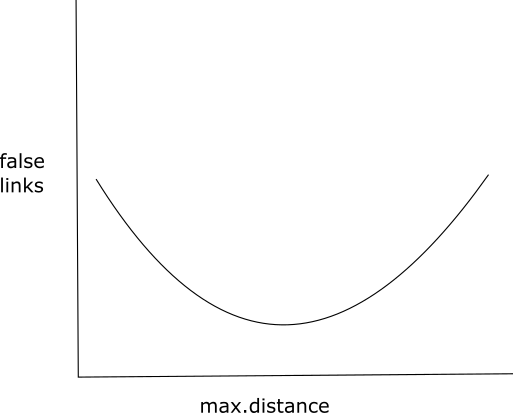
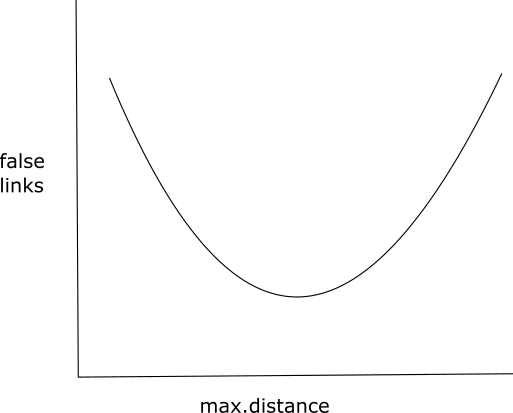
vignette work

diff --git a/github_vignettes/customer-deduplication.md b/github_vignettes/customer-deduplication.md
@@ -81,10 +81,10 @@ There is an inherent tradeoff if we choose to deduplicate records. If we estimat
 
 Deduplication is inherently a [record linkage](https://en.wikipedia.org/wiki/Record_linkage) problem. In theory, the false negative/positve tradeoff could be represented by the relationships below, where the `max.distance` parameter represents an argument to a function that links records (i.e., identifies duplicates) more aggresively as it increases (e.g., the `agrep()` function in R which I once used for deduplication in a project on the server: E:/SA/Projects/ASA/ASA-19-04 Retailer List Merge/). As the deduplication method becomes more aggressive at identifying duplicates, the number of false negatives decreases but the number of false positives increases. 
 
-![](img/dedup1.png)
+<img src="img/dedup1.png" height="350">
 
 ### Theoretical Optimum
 
 In theory, we could identify an ideal `max.distance` value that produces the least number of false linkages. In practice, this would be quite laborious, although you could start to get a sense by taking samples over a range of `max.distance` values and visually inspecting the results to count false negatives/positives in each sample.
 
-<img src="img/dedup2.png" height="400">
+<img src="img/dedup2.png" height="350">
